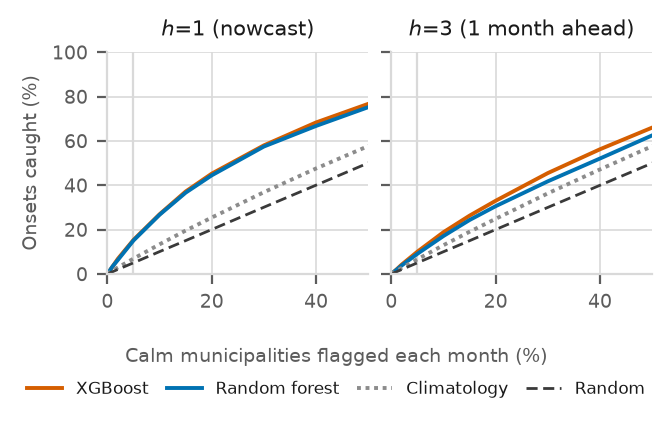
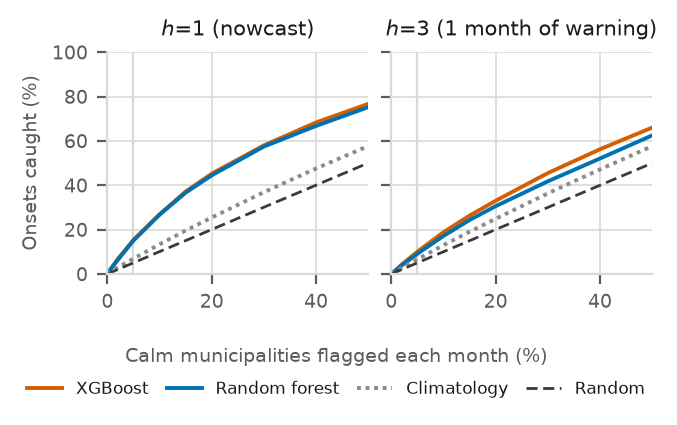
paper: Seção 6 alinhada à meta-review (h=1 nowcast, "month of warning", modelo de cada número)
- 6.2: sai "the false alarm rate is low enough to act on"; h=1 em tempo real é nowcast
- Seção 3 e Figura 4: h=3 é "a month of warning"; "one month ahead" fica só
  para o horizonte nominal h=1, como no resto do artigo
- modelo nomeado em 6.1 (LightGBM, melhor AUPRC, com checagem no 06), 6.5
  (limiares do passado e busca: random forest e XGBoost), 6.6, Figura 5 e 6.7
  (random forest)

diff --git a/src/paper/paper_outputs.py b/src/paper/paper_outputs.py
@@ -207,6 +207,8 @@ claim(trees.lift.round(1).nunique() == 1, "the three tree models have the same l
 m("nTreeLift", f"{trees.lift.iloc[0]:.1f}")
 m("nRateIncFrac", f"{rate:.3f}")
 claim(t3.auroc.idxmax() == "XGBoost", "XGBoost has the best pooled AUROC")
+claim(t3.loc[["Logistic regression", "Random Forest", "XGBoost", "LightGBM"], "auprc"].idxmax() == "LightGBM",
+      "LightGBM has the best pooled AUPRC (the best model of 6.1)")
 best_auprc = t3.loc[["Logistic regression", "Random Forest", "XGBoost", "LightGBM"], "auprc"].max()
 for key, lbl in (("Pers", "Persistence (month t)"), ("PersRt", "Persistence (real time)")):
     m(f"n{key}Auroc", f3(t3.loc[lbl, "auroc"]))
@@ -1082,7 +1084,7 @@ for ax, h in zip(axes, (1, 3)):
     ax.axvline(5, color=GRID, lw=0.8, zorder=0)
     ax.set_xlim(0, 50)
     ax.set_ylim(0, 100)
-    ax.set_title(f"$h$={h}" + (" (nowcast)" if h == 1 else " (1 month ahead)"), fontsize=7.5, color=INK)
+    ax.set_title(f"$h$={h}" + (" (nowcast)" if h == 1 else " (1 month of warning)"), fontsize=7.5, color=INK)
     style(ax)
 axes[0].set_ylabel("Onsets caught (%)", fontsize=7)
 fig.supxlabel("Calm municipalities flagged each month (%)", fontsize=7, color=MUTED, y=0.095)
